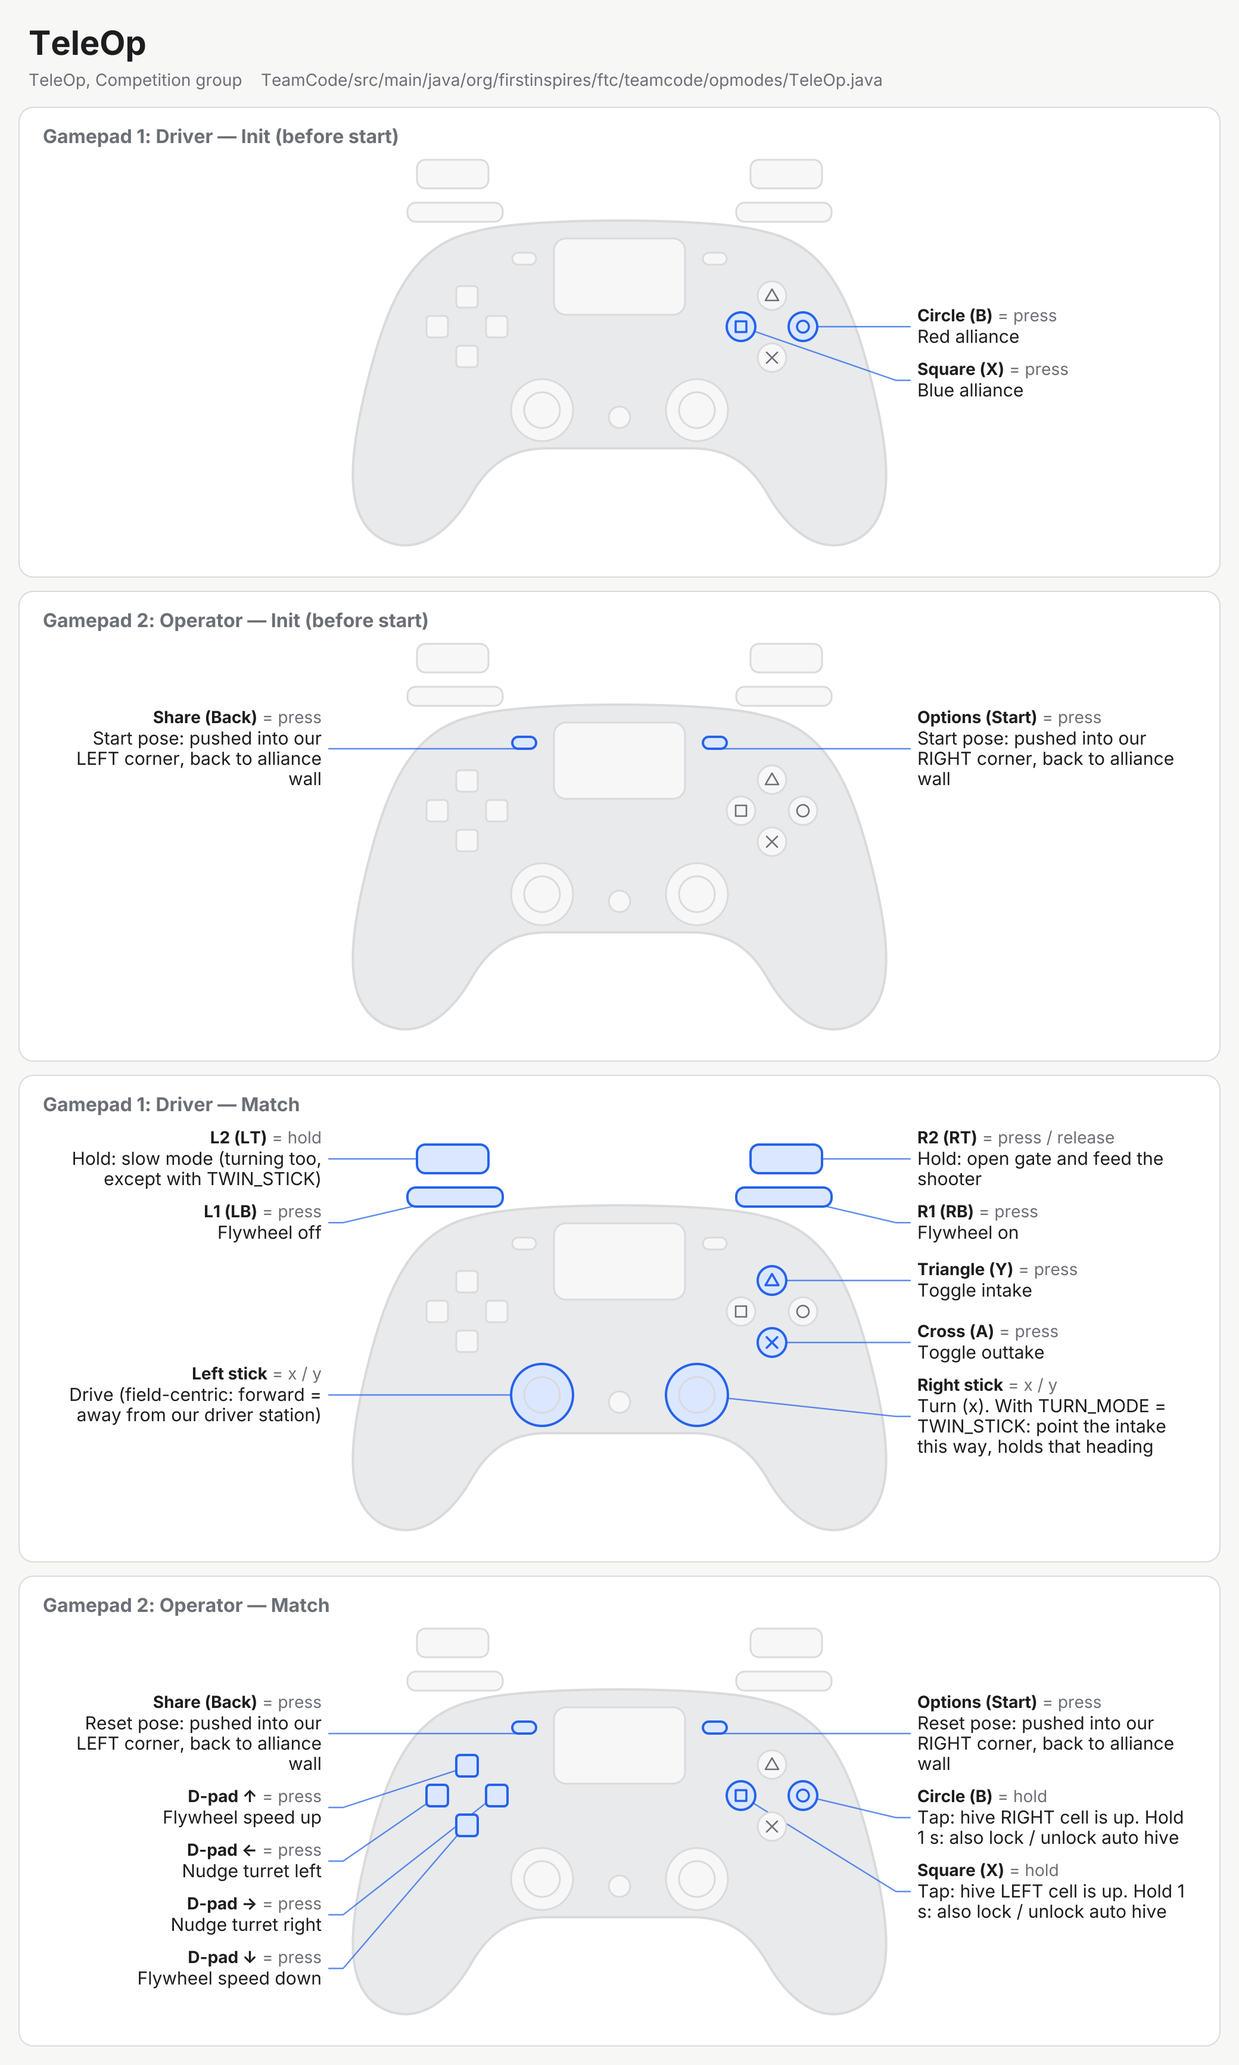
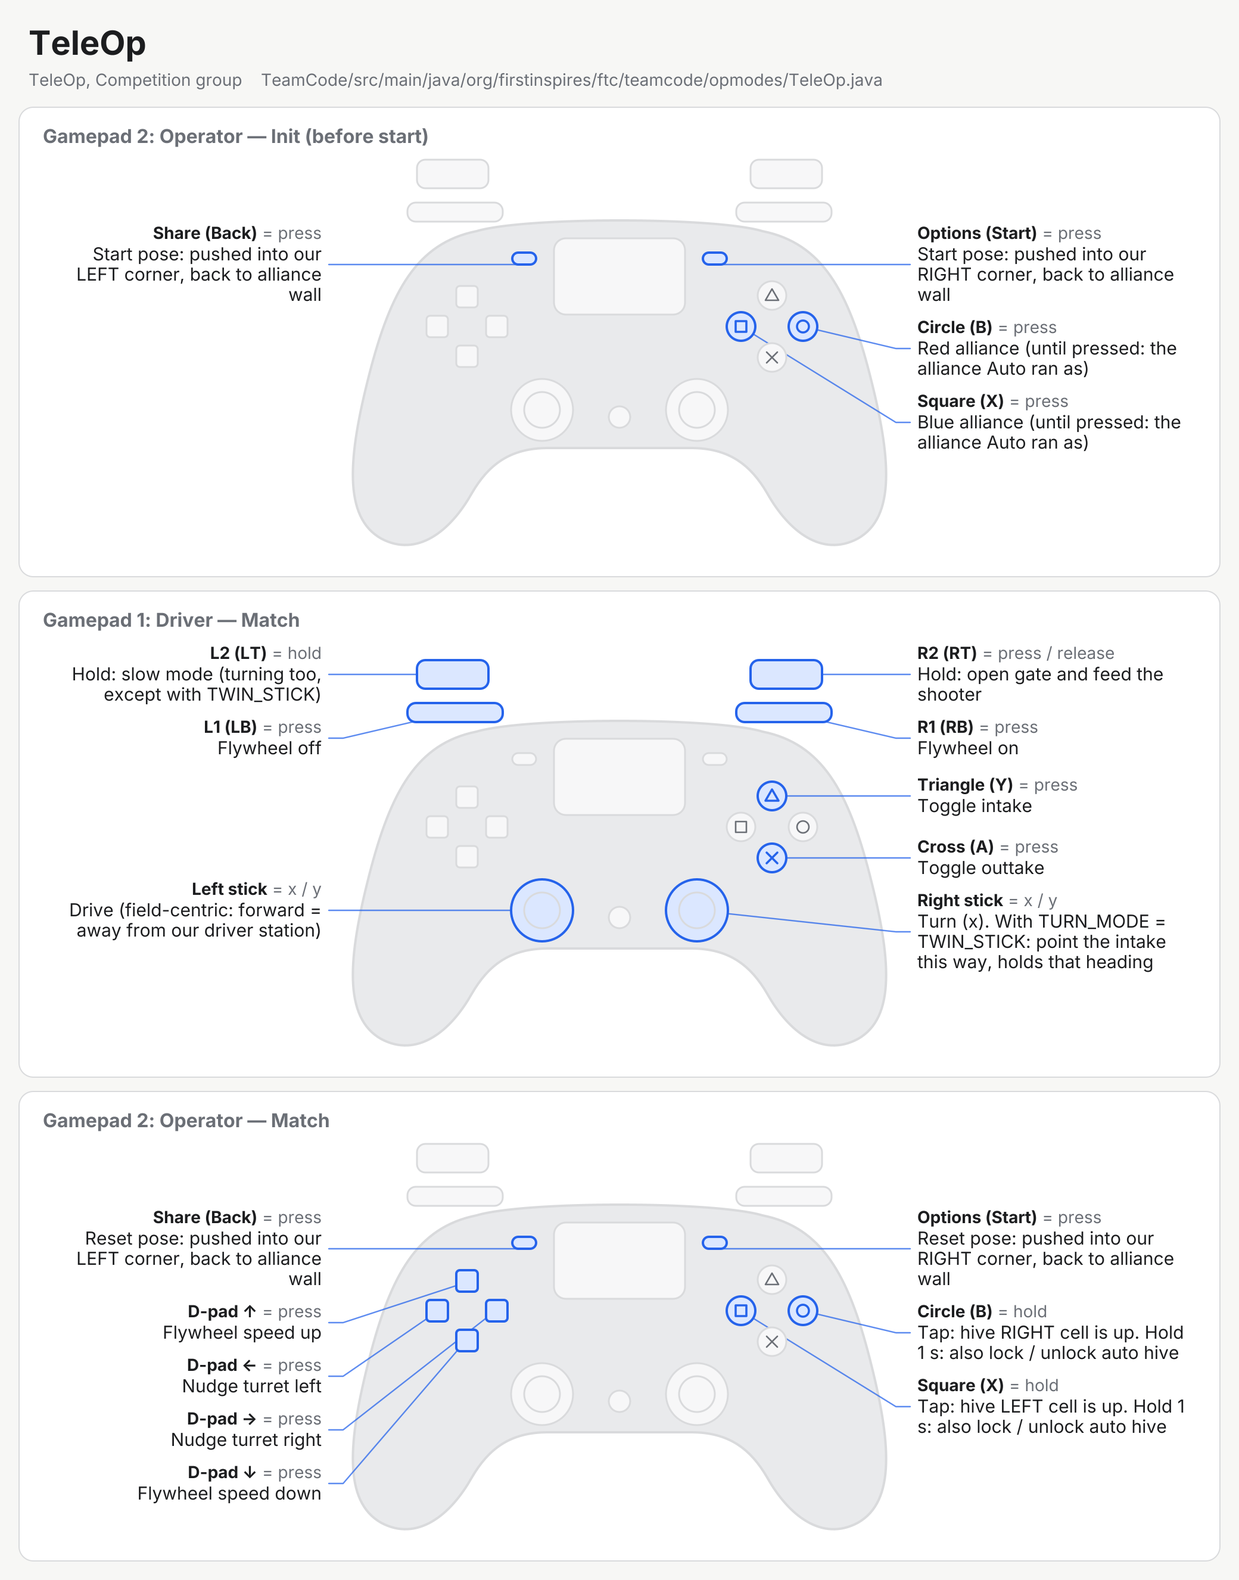
Use PlayStation button names everywhere; pick TeleOp's alliance on gamepad 2
Alliance is square / circle instead of X / B, on gamepad 2 in TeleOp. Tuners, labels and telemetry say cross / circle / square / triangle and L1 / R1 / L2 / R2. Adds the Pose Helper control diagram.

diff --git a/tools/telemetry-preview.html b/tools/telemetry-preview.html
@@ -297,7 +297,7 @@ pre .fold { color: var(--muted); }
 
       <fieldset>
         <legend>Flywheel</legend>
-        <div class="checks"><label><input type="checkbox" id="spinning"> Flywheel on (RB)</label></div>
+        <div class="checks"><label><input type="checkbox" id="spinning"> Flywheel on (R1)</label></div>
         <div class="row"><label for="target">Target</label><input type="range" id="target" min="500" max="2800" step="10"><output for="target" id="target-out"></output></div>
         <div class="row"><label for="actual">Actual</label><input type="range" id="actual" min="0" max="2800" step="10"><output for="actual" id="actual-out"></output></div>
         <div class="row"><label for="flyTol">Margin ±</label><input type="range" id="flyTol" min="10" max="150" step="5"><output for="flyTol" id="flyTol-out"></output></div>
@@ -328,7 +328,7 @@ pre .fold { color: var(--muted); }
         <div class="row"><label for="hive">Hive up</label><select id="hive"><option>LEFT</option><option>RIGHT</option></select></div>
         <div class="row"><label for="intake">Intake</label><select id="intake"><option>OFF</option><option>INTAKE</option><option>OUTTAKE</option></select></div>
         <div class="checks">
-          <label><input type="checkbox" id="feeding"> Feeding (RT held)</label>
+          <label><input type="checkbox" id="feeding"> Feeding (R2 held)</label>
           <label><input type="checkbox" id="gate"> Gate open</label>
         </div>
         <div class="row"><label for="loopMs">Loop time</label><input type="range" id="loopMs" min="4" max="60" step="0.5"><output for="loopMs" id="loopMs-out"></output></div>

diff --git a/TeamCode/src/main/java/org/firstinspires/ftc/teamcode/opmodes/tuning/HeadingTuner.java b/TeamCode/src/main/java/org/firstinspires/ftc/teamcode/opmodes/tuning/HeadingTuner.java
@@ -20,7 +20,8 @@ import org.firstinspires.ftc.teamcode.subsystems.Drivetrain;
  * The robot starts at heading 0, so stick forward is the way it faces at start.
  * 1. Raise kP until the robot turns to the target quickly, then back off if it overshoots.
  * 2. Add kD to damp any overshoot. Add kI only if it stops just short of the target.
- * X / A / B (gamepad 1) jump the target left / center / right by stepDegrees, Y turns it around (the hardest case).
+ * Square / cross / circle (gamepad 1) jump the target left / center / right by stepDegrees, triangle turns it around
+ * (the hardest case).
  * The sticks drive like TeleOp's twin stick drive, to check it holds the heading while driving.
  */
 @Configurable
@@ -64,17 +65,17 @@ public class HeadingTuner extends OpMode {
         RobotConstants.Drive.HEADING_MAX_POWER = maxPower;
 
         // Positive heading is counter-clockwise, i.e. to the left
-        if (gamepad1.xWasPressed()) drivetrain.setTargetHeading(Math.toRadians(stepDegrees));
-        if (gamepad1.aWasPressed()) drivetrain.setTargetHeading(0);
-        if (gamepad1.bWasPressed()) drivetrain.setTargetHeading(Math.toRadians(-stepDegrees));
-        if (gamepad1.yWasPressed()) drivetrain.setTargetHeading(drivetrain.getTargetHeading() + Math.PI);
+        if (gamepad1.squareWasPressed()) drivetrain.setTargetHeading(Math.toRadians(stepDegrees));
+        if (gamepad1.crossWasPressed()) drivetrain.setTargetHeading(0);
+        if (gamepad1.circleWasPressed()) drivetrain.setTargetHeading(Math.toRadians(-stepDegrees));
+        if (gamepad1.triangleWasPressed()) drivetrain.setTargetHeading(drivetrain.getTargetHeading() + Math.PI);
 
         drivetrain.update();
         Scheduler.execute();
 
         double target = Math.toDegrees(drivetrain.getTargetHeading());
         double actual = Math.toDegrees(Angle.normalizeSigned(drivetrain.getPose().heading()));
-        panels.addLine("X left, A center, B right, Y turn around");
+        panels.addLine("Square left, cross center, circle right, triangle turn around");
         panels.addData("Target (deg)", target);
         panels.addData("Actual (deg)", actual);
         panels.addData("Error (deg)", Math.toDegrees(Angle.normalizeSigned(Math.toRadians(target - actual))));

diff --git a/TeamCode/src/main/java/org/firstinspires/ftc/teamcode/opmodes/tuning/TurretTuner.java b/TeamCode/src/main/java/org/firstinspires/ftc/teamcode/opmodes/tuning/TurretTuner.java
@@ -19,7 +19,8 @@ import org.firstinspires.ftc.teamcode.subsystems.Launcher;
  * 0. Set kS (from the Turret Auto Tuner) so small errors still move the turret past friction.
  * 1. Raise kP until the turret gets to the target quickly, then back off if it overshoots.
  * 2. Add kD to damp any overshoot. Add kI only if it stalls just short of the target.
- * X / A / B (gamepad 1) jump the target left / center / right by stepDegrees, so you can watch the response.
+ * Square / cross / circle (gamepad 1) jump the target left / center / right by stepDegrees, so you can watch the
+ * response.
  */
 @Configurable
 @TeleOp(name = "Turret Tuner", group = "Tuning")
@@ -57,16 +58,16 @@ public class TurretTuner extends OpMode {
         RobotConstants.Launcher.TURRET_MAX_POWER = maxPower;
 
         // Positive angle is counter-clockwise, i.e. to the left
-        if (gamepad1.xWasPressed()) schedule(launcher.turnTurretTo(Math.toRadians(stepDegrees)));
-        if (gamepad1.aWasPressed()) schedule(launcher.turnTurretTo(0));
-        if (gamepad1.bWasPressed()) schedule(launcher.turnTurretTo(Math.toRadians(-stepDegrees)));
+        if (gamepad1.squareWasPressed()) schedule(launcher.turnTurretTo(Math.toRadians(stepDegrees)));
+        if (gamepad1.crossWasPressed()) schedule(launcher.turnTurretTo(0));
+        if (gamepad1.circleWasPressed()) schedule(launcher.turnTurretTo(Math.toRadians(-stepDegrees)));
 
         launcher.update();
         Scheduler.execute();
 
         double target = Math.toDegrees(launcher.getTurretTargetAngle());
         double actual = Math.toDegrees(launcher.getTurretAngle());
-        panels.addLine("X left, A center, B right");
+        panels.addLine("Square left, cross center, circle right");
         panels.addData("On target", launcher.isTurretOnTarget());
         panels.addData("Target (deg)", target);
         panels.addData("Actual (deg)", actual);

diff --git a/TeamCode/src/main/java/org/firstinspires/ftc/teamcode/opmodes/TeleOp.java b/TeamCode/src/main/java/org/firstinspires/ftc/teamcode/opmodes/TeleOp.java
@@ -37,11 +37,12 @@ import org.firstinspires.ftc.teamcode.util.PanelsDisplay;
  *   left stick      field-centric drive (stick forward = away from our driver station)
  *   right stick     point the intake that way (same frame); the robot holds that heading when let go.
  *                   With RobotConstants.Drive.TURN_MODE = RATE, right stick x sets the turn speed instead
- *   hold LT         slow mode (driving only; with RATE, turning too)
+ *   hold L2         slow mode (driving only; with RATE, turning too)
  *   triangle        toggle intake        cross   toggle outtake
- *   RB              flywheel on          LB      flywheel off
- *   hold RT         open the gate and feed the shooter
+ *   R1              flywheel on          L1      flywheel off
+ *   hold R2         open the gate and feed the shooter
  * Gamepad 2 (operator):
+ *   square / circle during init: blue / red alliance (until pressed, the alliance Auto ran as)
  *   dpad left/right nudge turret         dpad up/down  nudge flywheel speed
  *   square / circle tap: hive LEFT / RIGHT cell is up (the Limelight keeps checking it)
  *                   hold 1 s: set that cell and lock / unlock automatic hive detection (short rumble)
@@ -85,7 +86,7 @@ public class TeleOp extends OpMode {
     @Override
     public void init_loop() {
         telemetry.addLine(color(bold("Did you remember to zero the turret? :-)"), YELLOW));
-        MatchState.selectAlliance(gamepad1, telemetry);
+        MatchState.selectAlliance(gamepad2, 2, telemetry);
         // Only remembered here: the alliance can still change, so the corner is turned into a pose at start
         if (gamepad2.shareWasPressed()) initCorner = RED_LEFT_CORNER;
         if (gamepad2.optionsWasPressed()) initCorner = RED_RIGHT_CORNER;

diff --git a/TeamCode/src/main/java/org/firstinspires/ftc/teamcode/opmodes/tuning/PoseHelper.java b/TeamCode/src/main/java/org/firstinspires/ftc/teamcode/opmodes/tuning/PoseHelper.java
@@ -15,9 +15,9 @@ import java.util.List;
 
 /**
  * Push the robot around by hand and record poses from odometry.
- *   B  save the current pose
- *   X  zero the pose (0, 0, 0°), keep saved poses
- *   A  zero the pose and clear saved poses
+ *   circle  save the current pose
+ *   square  zero the pose (0, 0, 0°), keep saved poses
+ *   cross   zero the pose and clear saved poses
  */
 @Configurable
 @TeleOp(name = "Pose Helper", group = "Tuning")
@@ -26,7 +26,7 @@ public class PoseHelper extends OpMode {
     private Robot robot;
     private TelemetryManager panels;
     private final List<Pose> poseList = new ArrayList<>();
-    private boolean lastA = false, lastB = false, lastX = false;
+    private boolean lastCross = false, lastCircle = false, lastSquare = false;
 
     @Override
     public void init() {
@@ -51,17 +51,17 @@ public class PoseHelper extends OpMode {
     public void loop() {
         robot.update(); // updates the follower / odometry
 
-        boolean b = gamepad1.b;
-        if (b && !lastB) poseList.add(robot.drivebase.getPose());
-        lastB = b;
+        boolean circle = gamepad1.circle;
+        if (circle && !lastCircle) poseList.add(robot.drivebase.getPose());
+        lastCircle = circle;
 
-        boolean x = gamepad1.x;
-        if (x && !lastX) zeroPose();
-        lastX = x;
+        boolean square = gamepad1.square;
+        if (square && !lastSquare) zeroPose();
+        lastSquare = square;
 
-        boolean a = gamepad1.a;
-        if (a && !lastA) reset();
-        lastA = a;
+        boolean cross = gamepad1.cross;
+        if (cross && !lastCross) reset();
+        lastCross = cross;
 
         updateTelemetry();
     }

diff --git a/TeamCode/src/main/java/org/firstinspires/ftc/teamcode/opmodes/tuning/MotorTester.java b/TeamCode/src/main/java/org/firstinspires/ftc/teamcode/opmodes/tuning/MotorTester.java
@@ -31,8 +31,8 @@ import java.util.Set;
  *
  * <p>Gamepad 1, any device: D-pad left / right picks the device.
  * <ul>
- *   <li>Motor / CR servo: hold RB = forward, hold LB = reverse, let go = stop. D-pad up / down = power up / down by powerStep.
- *   <li>Servo: RB = position + step, LB = position - step, square (X) = go to 0.5. D-pad up / down = bigger /
+ *   <li>Motor / CR servo: hold R1 = forward, hold L1 = reverse, let go = stop. D-pad up / down = power up / down by powerStep.
+ *   <li>Servo: R1 = position + step, L1 = position - step, square = go to 0.5. D-pad up / down = bigger /
  *       smaller step (0.01, 0.05, 0.1). A servo isn't moved until you first press one of these.
  * </ul>
  * In Panels (Configurables > MotorTester): power, servoPosition (type a value and the selected servo goes there),
@@ -225,11 +225,11 @@ public class MotorTester extends OpMode {
         panels.addLine("== MOTOR TESTER (gamepad 1) ==");
         panels.addLine("D-pad LEFT / RIGHT: choose device");
         if (device.kind == Kind.SERVO) {
-            panels.addLine("RB: move + step   LB: move - step");
-            panels.addLine("SQUARE (X): go to 0.5");
+            panels.addLine("R1: move + step   L1: move - step");
+            panels.addLine("SQUARE: go to 0.5");
             panels.addLine("D-pad UP / DOWN: bigger / smaller step");
         } else {
-            panels.addLine("Hold RB: forward   Hold LB: reverse");
+            panels.addLine("Hold R1: forward   Hold L1: reverse");
             panels.addLine("D-pad UP / DOWN: more / less power");
         }
         panels.addLine("");

diff --git a/TeamCode/src/main/java/org/firstinspires/ftc/teamcode/opmodes/tuning/LocalizationTest.java b/TeamCode/src/main/java/org/firstinspires/ftc/teamcode/opmodes/tuning/LocalizationTest.java
@@ -25,7 +25,7 @@ import java.util.ArrayDeque;
  * The field shows the trail magnified ZOOM times around the field center, with rings at 1 in and 2 in of real drift.
  * The Graph shows x and y: a spin with wrong offsets makes them wave up and down once per turn.
  * Uses the localizer and drivetrain directly, so it runs before the Foresight Tuner.
- * Left stick drives, right stick x turns, A clears the trail and puts the robot back at 0, 0.
+ * Left stick drives, right stick x turns, cross clears the trail and puts the robot back at 0, 0.
  */
 @Configurable
 @TeleOp(name = "Localization Test", group = "Tuning")
@@ -60,7 +60,7 @@ public class LocalizationTest extends OpMode {
 
     @Override
     public void loop() {
-        if (gamepad1.aWasPressed()) reset();
+        if (gamepad1.crossWasPressed()) reset();
         drivetrain.drive(new DrivePowers(-gamepad1.left_stick_y, -gamepad1.left_stick_x, -gamepad1.right_stick_x), true);
         localizer.update();
 
@@ -79,7 +79,7 @@ public class LocalizationTest extends OpMode {
         }
         if (field.getShouldUpdateCanvas()) draw(pose);
 
-        panels.addLine("Spin in place with the right stick. A: clear and reset to 0, 0");
+        panels.addLine("Spin in place with the right stick. Cross: clear and reset to 0, 0");
         panels.addData("x (in)", pose.x());
         panels.addData("y (in)", pose.y());
         panels.addData("Heading (deg)", Math.toDegrees(pose.heading()));

diff --git a/TeamCode/src/main/java/org/firstinspires/ftc/teamcode/opmodes/tuning/FlywheelTuner.java b/TeamCode/src/main/java/org/firstinspires/ftc/teamcode/opmodes/tuning/FlywheelTuner.java
@@ -24,7 +24,7 @@ import org.firstinspires.ftc.teamcode.subsystems.Launcher;
  * 2. Raise kP until it recovers quickly from a shot without oscillating. Add kI only if it settles below target.
  * Bang-bang (bangBang = true): only kV matters. Lower it if the speed sits above target with the power at the hold
  * value; it's fine for the power to flick to full now and then.
- * A (gamepad 1) toggles the flywheel on / off.
+ * Cross (gamepad 1) toggles the flywheel on / off.
  */
 @Configurable
 @TeleOp(name = "Flywheel Tuner", group = "Tuning")
@@ -58,12 +58,12 @@ public class FlywheelTuner extends OpMode {
     @Override
     public void loop() {
         pushChanges();
-        if (gamepad1.aWasPressed()) schedule(launcher.toggleFlywheel());
+        if (gamepad1.crossWasPressed()) schedule(launcher.toggleFlywheel());
 
         launcher.update();
         Scheduler.execute();
 
-        panels.addLine(launcher.isSpinning() ? "Flywheel ON (A to stop)" : "Flywheel OFF (A to start)");
+        panels.addLine(launcher.isSpinning() ? "Flywheel ON (cross to stop)" : "Flywheel OFF (cross to start)");
         panels.addLine("Control: " + RobotConstants.Launcher.FLYWHEEL_CONTROL);
         panels.addData("Target", launcher.getTargetVelocity());
         panels.addData("Actual", launcher.getFlywheelVelocity());

diff --git a/TeamCode/src/main/java/org/firstinspires/ftc/teamcode/opmodes/tuning/IntakeFlywheelTest.java b/TeamCode/src/main/java/org/firstinspires/ftc/teamcode/opmodes/tuning/IntakeFlywheelTest.java
@@ -16,7 +16,7 @@ import org.firstinspires.ftc.teamcode.core.RobotConstants;
 /**
  * Temporary: spin the intake and the flywheel together, like the Motor Tester but for both at once. The intake always
  * runs at full power; the flywheel runs at the power setting.
- * Gamepad 1: hold RB = both forward, hold LB = both reverse, let go = stop. D-pad up / down = flywheel power up / down
+ * Gamepad 1: hold R1 = both forward, hold L1 = both reverse, let go = stop. D-pad up / down = flywheel power up / down
  * by powerStep. Power is also editable under Configurables > IntakeFlywheelTest.
  *
  * <p>Raw power (no flywheel PIDF), with each motor's direction from RobotConstants so forward = intake in / shoot.
@@ -62,7 +62,7 @@ public class IntakeFlywheelTest extends OpMode {
         setPower(direction);
 
         panels.addLine("== INTAKE + FLYWHEEL TEST (gamepad 1) ==");
-        panels.addLine("Hold RB: both forward   Hold LB: both reverse");
+        panels.addLine("Hold R1: both forward   Hold L1: both reverse");
         panels.addLine("D-pad UP / DOWN: more / less flywheel power");
         panels.addLine("");
         panels.addData("Flywheel power setting", String.format("%.2f", power));

diff --git a/TeamCode/src/main/java/org/firstinspires/ftc/teamcode/opmodes/tuning/HiveVisionTest.java b/TeamCode/src/main/java/org/firstinspires/ftc/teamcode/opmodes/tuning/HiveVisionTest.java
@@ -15,7 +15,7 @@ import org.firstinspires.ftc.teamcode.vision.HiveReader;
  * Check and calibrate the Limelight's hive reading on the practice hive. Edit the values under
  * Configurables > HiveVisionTest in Panels; copy the final ones into RobotConstants.Vision.
  *
- * Pick the alliance during init (X blue, B red). Every tag in view is listed with its ID, which of our cells it's on,
+ * Pick the alliance during init (square blue, circle red). Every tag in view is listed with its ID, which of our cells it's on,
  * its camera-space position, its height above the tiles and how far off its face the camera is looking.
  * 1. Lens height: measure it and set lensHeight.
  * 2. Tilt: measure the height of one tag on the practice hive (tape to the tag's center) and set knownTagId and
@@ -44,7 +44,7 @@ public class HiveVisionTest extends OpMode {
 
     @Override
     public void init_loop() {
-        MatchState.selectAlliance(gamepad1, telemetry);
+        MatchState.selectAlliance(gamepad1, 1, telemetry);
         telemetry.addData("Limelight", vision.isAvailable() ? "found" : "NOT FOUND (check the configuration name)");
         telemetry.update();
     }

diff --git a/TeamCode/src/main/java/org/firstinspires/ftc/teamcode/opmodes/tuning/BallChaseTest.java b/TeamCode/src/main/java/org/firstinspires/ftc/teamcode/opmodes/tuning/BallChaseTest.java
@@ -18,7 +18,7 @@ import org.firstinspires.ftc.teamcode.core.Robot;
  * Tries the pollen chase: the robot drives the intake over the pollen the ball camera sees until it has maxBalls,
  * nothing is in view, or timeoutS runs out. Set maxBalls and timeoutS under Configurables > BallChaseTest in Panels.
  *
- * During init pick the alliance (X / B) and the corner the robot starts in, back against the alliance wall (dpad left /
+ * During init pick the alliance (square / circle) and the corner the robot starts in, back against the alliance wall (dpad left /
  * right), so the chase knows where the walls, flowers and hive are. Start chases; cross chases again from wherever
  * the robot is.
  */
@@ -41,7 +41,7 @@ public class BallChaseTest extends OpMode {
 
     @Override
     public void init_loop() {
-        MatchState.selectAlliance(gamepad1, telemetry);
+        MatchState.selectAlliance(gamepad1, 1, telemetry);
         if (gamepad1.dpadLeftWasPressed()) corner = RED_LEFT_CORNER;
         if (gamepad1.dpadRightWasPressed()) corner = RED_RIGHT_CORNER;
         telemetry.addData("Start", "%s corner, back to the alliance wall   (dpad ←→)",

diff --git a/TeamCode/src/main/java/org/firstinspires/ftc/teamcode/opmodes/tuning/ChaseAndShootTest.java b/TeamCode/src/main/java/org/firstinspires/ftc/teamcode/opmodes/tuning/ChaseAndShootTest.java
@@ -36,7 +36,7 @@ import org.psilynx.psikit.core.Logger;
  * flywheel spinning up, shoots what it has, and chases again from there for the room left. It stops when a chase picks
  * up nothing, or when there's no shot from the launch spot. A test, not a menu Auto.
  *
- * During init pick the alliance (X / B) and the corner the robot starts in, back against the alliance wall (dpad left /
+ * During init pick the alliance (square / circle) and the corner the robot starts in, back against the alliance wall (dpad left /
  * right). The hive starts with the RIGHT cell up, as at the start of a match.
  */
 @Configurable
@@ -65,7 +65,7 @@ public class ChaseAndShootTest extends OpMode {
 
     @Override
     public void init_loop() {
-        MatchState.selectAlliance(gamepad1, telemetry);
+        MatchState.selectAlliance(gamepad1, 1, telemetry);
         if (gamepad1.dpadLeftWasPressed()) corner = RED_LEFT_CORNER;
         if (gamepad1.dpadRightWasPressed()) corner = RED_RIGHT_CORNER;
         telemetry.addData("Start", "%s corner, back to the alliance wall   (dpad ←→)",
